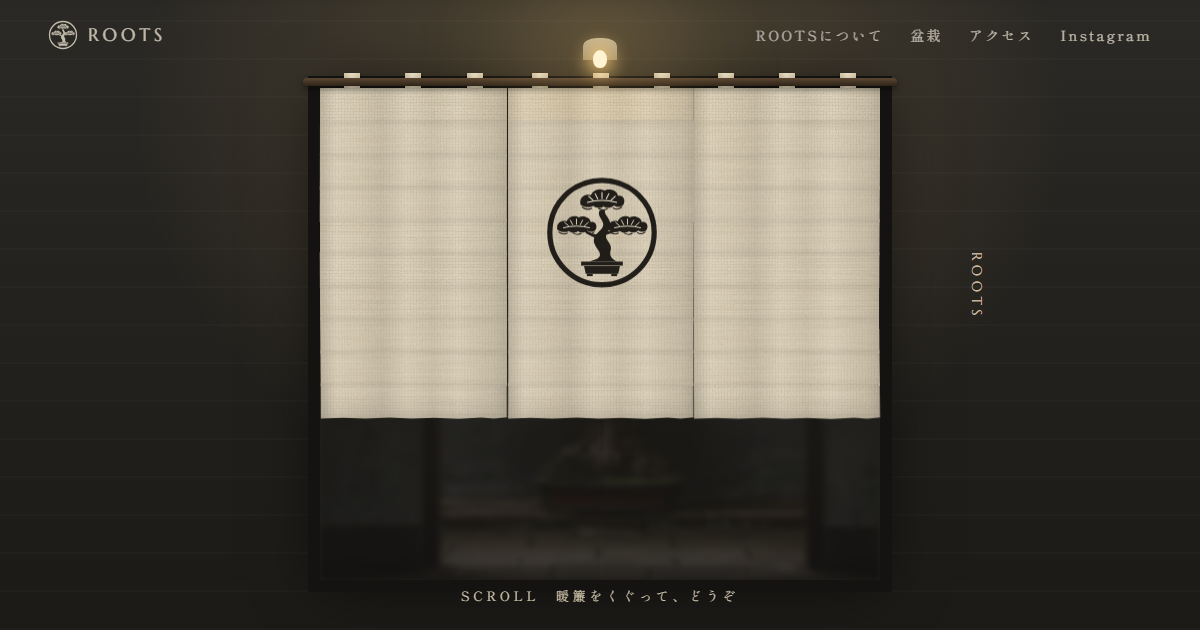
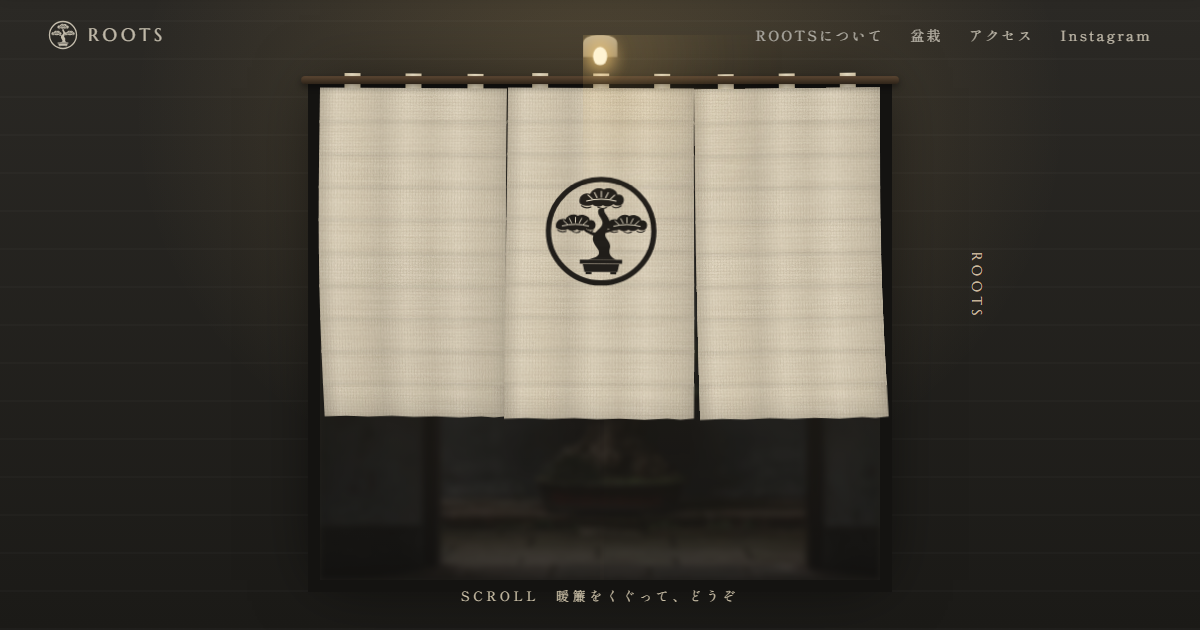
たたき台を更新

diff --git a/s/86facc1ae94ffe83/index.html b/s/86facc1ae94ffe83/index.html
@@ -266,6 +266,11 @@ html.js .rv.is-in{opacity:1;filter:none;transform:none}
     linear-gradient(90deg, rgba(0,0,0,.07) 0%, rgba(255,255,255,.10) 9%, rgba(0,0,0,.02) 20%, rgba(0,0,0,.08) 33%, rgba(255,255,255,.08) 46%, rgba(0,0,0,.05) 60%, rgba(255,255,255,.10) 74%, rgba(0,0,0,.06) 88%, rgba(0,0,0,.10) 100%),
     linear-gradient(#efe5cf,#efe5cf);background-blend-mode:normal, multiply, multiply, normal, normal, normal, normal}
 .seg:last-child{clip-path:polygon(0 0,100% 0,100% 96%,93% 99%,86% 96.5%,74% 100%,61% 97%,49% 99.5%,37% 96.5%,24% 99%,12% 97%,0 99%);box-shadow:inset 0 -14px 18px rgba(0,0,0,.08), inset 6px 0 10px rgba(0,0,0,.06), inset -6px 0 10px rgba(0,0,0,.06)}
+
+/* rod sits clearly in front of the cloth loops (avoids z-fighting flicker in 3D) */
+.walk .noren__rod{transform:translateZ(4px)}
+.walk .noren .lamp{transform:translateX(-50%) translateZ(6px)}
+.walk .noren__p::before{opacity:calc(1 - var(--q,0) * 10);transform:translateZ(-1px)}
 </style>
 <script>document.documentElement.className += " js";</script>
 </head>
@@ -461,6 +466,7 @@ html.js .rv.is-in{opacity:1;filter:none;transform:none}
     var q = parseFloat(getComputedStyle(st).getPropertyValue('--q')) || 0;
     var t = (now - t0) / 1000;
     rows.forEach(function(r){
+      r.el.style.rotate = (Math.sin(t * .8 + r.pi * 2.1) * .7 * (1 - q)).toFixed(3) + 'deg';   /* 左右にもわずかに振れる */
       var y = 0, z = 0;
       var qq = Math.min(1, q * (r.pi === 1 ? 1.1 : .95));          /* 真ん中の布を先に押す */
       r.segs.forEach(function(s, k){
@@ -469,7 +475,7 @@ html.js .rv.is-in{opacity:1;filter:none;transform:none}
         var e = qq * qq * (3 - 2 * qq);
         var bend = -e * (8 + 142 * Math.pow(u, 1.15));
         var lag = Math.sin(Math.PI * Math.min(1, qq * 1.25)) * 22 * u * u;   /* 裾が少し遅れてついてくる */
-        var idle = Math.sin(t * 1.3 + k * .55 + r.pi) * 1.6 * u * (1 - qq);   /* 止まっている間のかすかな揺れ */
+        var idle = (Math.sin(t * 1.05 + r.pi * 1.7 - u * 2.4) * (1.2 + 5.5 * u) + Math.sin(t * 2.3 + r.pi - u * 4) * 1.2 * u) * (1 - qq);   /* 棒を軸に前後へ揺れ、裾へ波が伝わる */
         var a = bend + lag + idle;
         s.style.transform = 'translate3d(0,' + y.toFixed(2) + 'px,' + z.toFixed(2) + 'px) rotateX(' + a.toFixed(2) + 'deg)';
         s.style.filter = k === 0 && qq === 0 ? '' : 'brightness(' + (1 - Math.min(.5, Math.max(0, -a) / 220)).toFixed(3) + ')';
